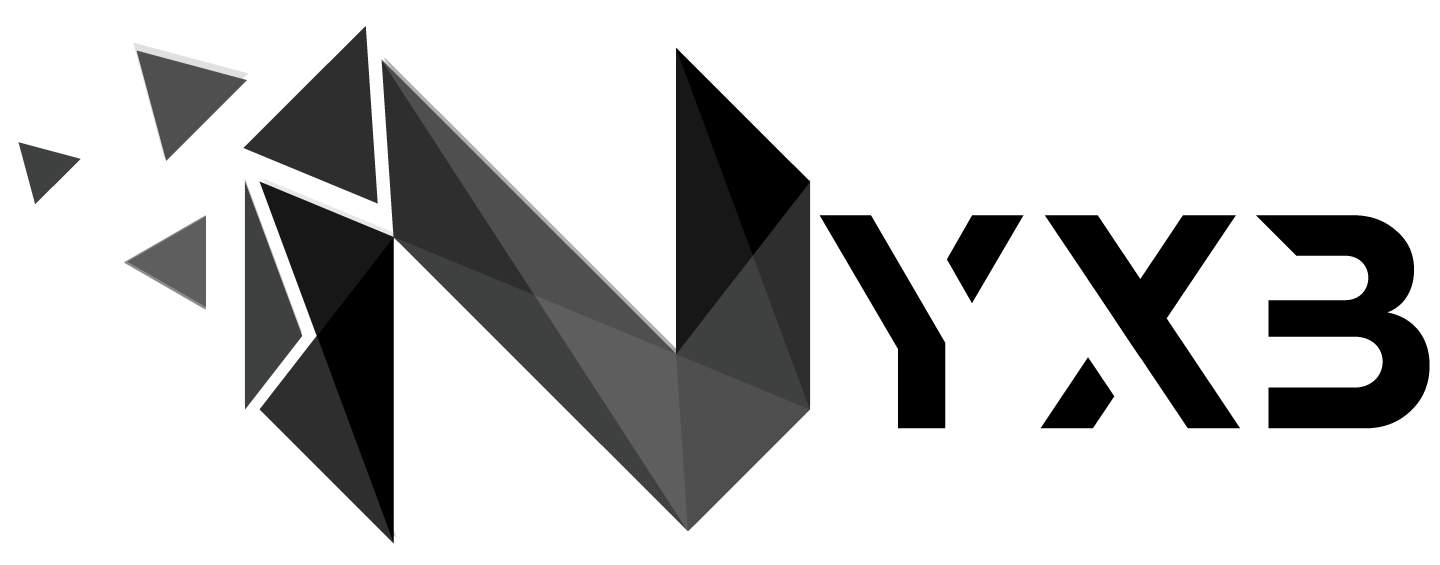
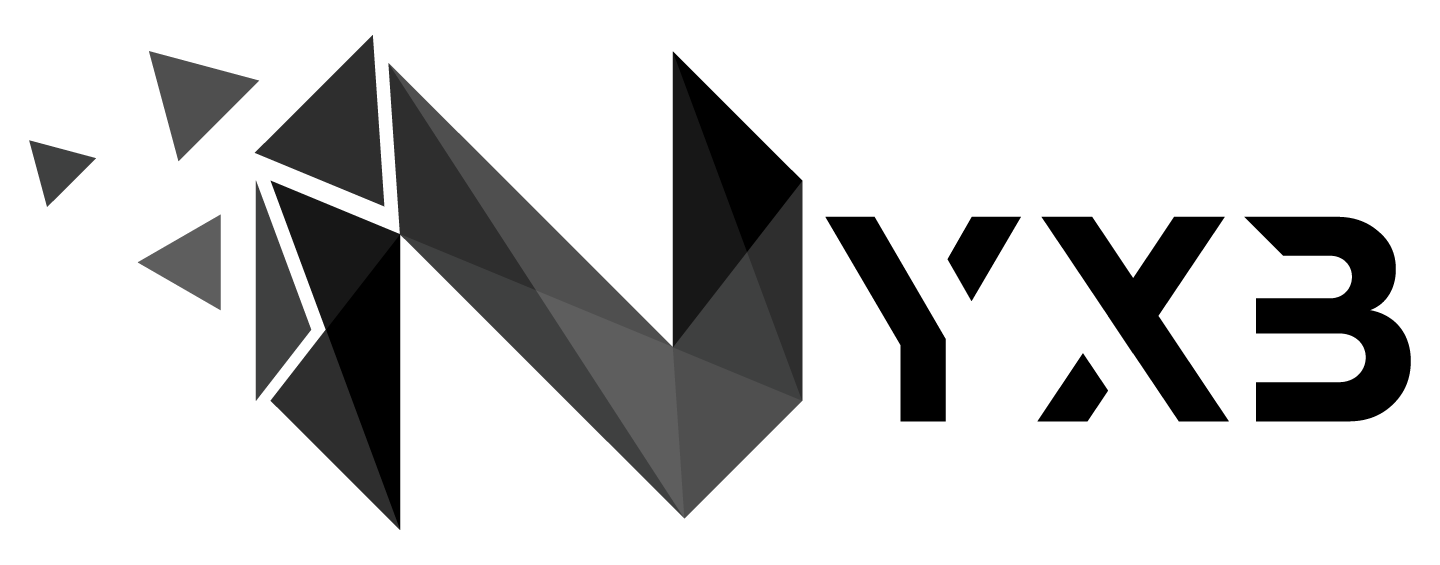
📚 docs(README.md): update cover image to support light and dark mode for better visual consistency across different themes

diff --git a/README.md b/README.md
@@ -1,5 +1,8 @@
 
-<img align="center" src="images/cover-github.webp">
+<p align="center">
+<img src="https://user-images.githubusercontent.com/8291514/213727234-cda046d6-28c6-491a-b284-b86c5cede25d.png#gh-light-mode-only">
+<img src="https://raw.githubusercontent.com/nyxb/nyxb/refs/heads/main/images/dark.png#gh-dark-mode-only">
+</p>
 
 ---
 <br/>
